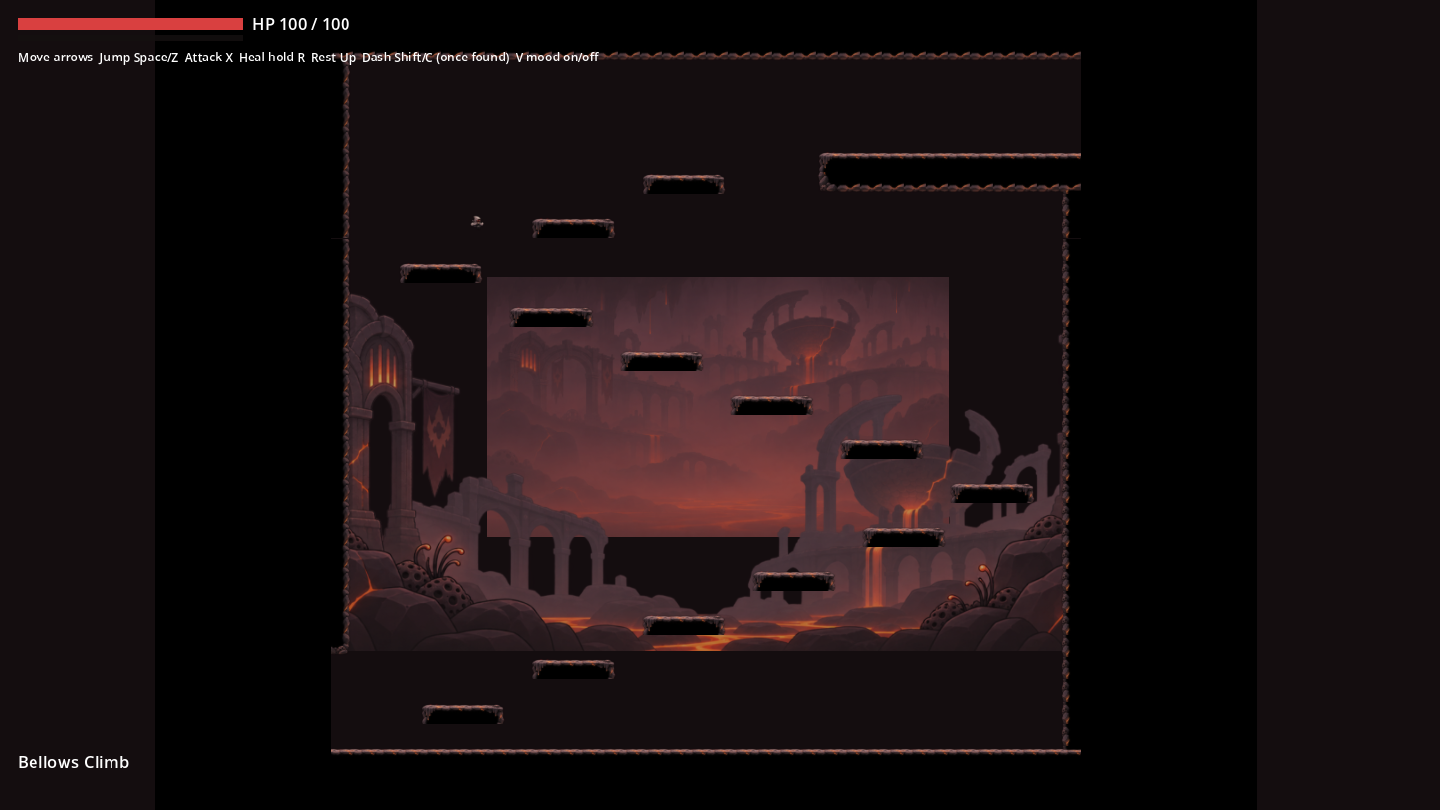
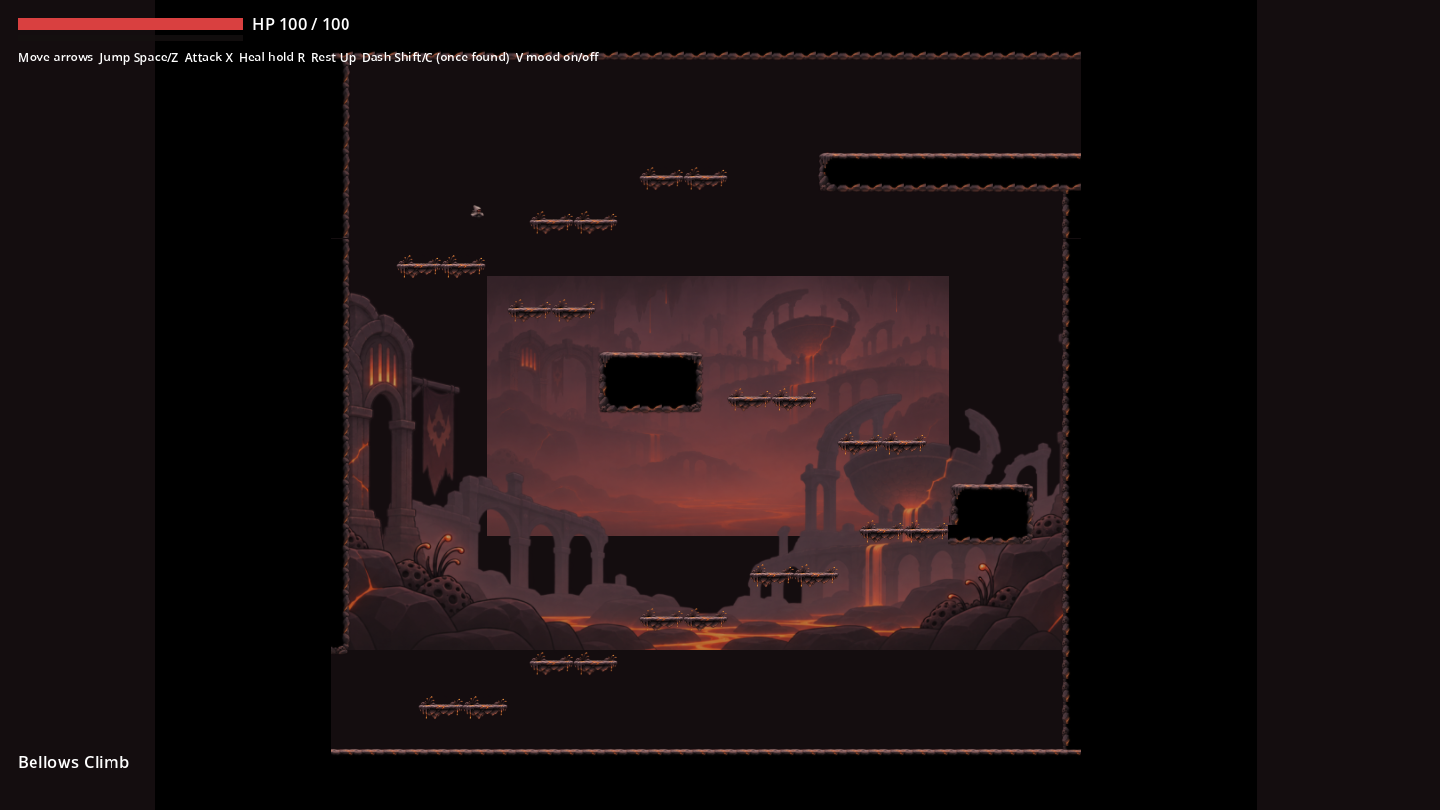
feat: large floating rock islands mixed with small platforms in Cinderheart
Most thin platforms are now big floating islands (4-8 cells wide, 2-4 tall)
drawn with the painted rock frame, with small floating platforms between them,
as Hollow Knight does. All nine rooms re-pass the reachability checker (every
exit, relic and rest reachable; both dash gates hold).

Story: design/levels/cinderheart-region-1.md

Claude-Session: https://claude.ai/code/session_01S7oES5N1xkGSV2ZhoVdSDe

diff --git a/tools/level/cinderheart_layout.py b/tools/level/cinderheart_layout.py
@@ -43,6 +43,11 @@ class Room:
     def fake(self, x0, y0, x1, y1):
         return self._fill(x0, y0, x1, y1, "F")
 
+    def island(self, x, s, w, h):
+        """A large floating rock island: top (surface) row s, w columns, h rows thick. Drawn
+        with the big painted rock frame (edges around a dark middle)."""
+        return self.solid(x, s, x + w - 1, s + h - 1)
+
     def plat(self, x, s, w):
         """A floating rock island one cell thick: top (surface) row s, columns x..x+w-1."""
         return self.solid(x, s, x + w - 1, s)
@@ -149,8 +154,9 @@ r = Room("c01_waking_niche", "Waking Niche", 48, 26)
 r.open(6, 2, 45, 21)
 r.open(2, 18, 3, 21).fake(4, 18, 5, 21)                 # secret nook behind a fake wall
 r.solid(38, 6, 47, 7).open(46, 3, 47, 5)               # top ledge and exit
-r.plat(14, 20, 4).plat(19, 18, 4).plat(24, 16, 4).plat(29, 14, 4).plat(34, 12, 4)
-r.plat(39, 10, 4).plat(33, 8, 4)
+r.plat(9, 20, 3).island(14, 18, 6, 3).island(22, 16, 6, 4).plat(30, 14, 2)
+r.island(33, 12, 6, 3).plat(28, 10, 3).plat(31, 8, 2)
+r.solid(34, 6, 37, 7)
 r.exit("right", "right", 3, 5, "c02_ash_steps", "left")
 r.mark("start", 8, 22).mark("rest", 11, 22).mark("relic", 2, 22)
 rooms.append(r)
@@ -161,8 +167,8 @@ r = Room("c02_ash_steps", "Ash Steps", 64, 30)
 r.open(0, 2, 61, 27)
 r.solid(0, 6, 10, 7)                                    # entry ledge
 r.solid(16, 12, 44, 17)                                 # the great rock
-r.plat(19, 10, 2).plat(22, 8, 3).plat(27, 6, 3)         # climb to the relic
-r.plat(49, 22, 4).plat(53, 25, 3)                       # steps down to the exit
+r.plat(19, 10, 2).plat(22, 8, 2).island(25, 6, 6, 3)    # climb to the relic
+r.island(47, 22, 5, 3).plat(54, 25, 3)                  # down to the exit
 r.open(62, 24, 63, 27)
 r.exit("left", "left", 3, 5, "c01_waking_niche", "right")
 r.exit("right", "right", 24, 27, "c03_kiln_hall", "high_left")
@@ -181,8 +187,8 @@ r.solid(0, 8, 12, 9).solid(0, 2, 0, 4)                  # high shelf (arrival, o
 r.solid(0, 10, 1, 23)
 r.open(20, 28, 22, 31)                                  # floor hole
 r.solid(28, 26, 40, 27).solid(31, 24, 37, 25)           # kiln mound
-r.plat(40, 22, 3).plat(45, 20, 3).plat(50, 18, 3).plat(55, 16, 3).plat(60, 14, 3)
-r.plat(64, 12, 3).plat(59, 10, 3)
+r.island(40, 22, 6, 3).plat(48, 20, 2).island(52, 18, 6, 3).plat(60, 16, 2)
+r.island(63, 14, 4, 3).plat(58, 12, 3).plat(62, 10, 2)
 r.solid(63, 8, 69, 9)                                   # upper ledge to the hidden room
 r.solid(68, 10, 69, 23).open(68, 5, 69, 7).open(68, 24, 69, 27)
 r.exit("high_left", "left", 5, 7, "c02_ash_steps", "right")
@@ -208,7 +214,7 @@ r.solid(44, 18, 52, 19)                                 # shelf
 r.open(38, 20, 40, 21)                                  # pit
 r.solid(22, 19, 23, 19).solid(24, 17, 32, 19)           # step and shelf
 r.open(14, 20, 16, 21)                                  # pit
-r.plat(48, 16, 3).plat(42, 14, 4).plat(36, 12, 4).plat(29, 11, 4).plat(24, 9, 4)
+r.plat(48, 16, 3).island(41, 14, 5, 3).plat(36, 12, 3).island(28, 10, 6, 3).plat(23, 9, 2)
 r.solid(2, 1, 14, 8).open(4, 6, 10, 7).fake(11, 6, 14, 7).solid(15, 8, 20, 8)
 r.exit("up", "top", 70, 72, "c03_kiln_hall", "down")
 r.exit("left", "left", 16, 19, "c06_keepers_forge", "right")
@@ -226,7 +232,7 @@ r.open(0, 2, 53, 13)
 r.solid(24, 13, 53, 13)                                 # far side, a cell higher
 r.open(20, 14, 23, 16).solid(20, 16, 20, 16)            # pit with a step
 r.solid(0, 2, 0, 9).solid(53, 2, 53, 8)
-r.plat(28, 11, 2).plat(31, 9, 3)
+r.plat(27, 11, 2).island(30, 9, 6, 3)
 r.exit("left", "left", 10, 13, "c03_kiln_hall", "right")
 r.exit("right", "right", 9, 12, "c08_brun_antechamber", "left")
 r.mark("gate", 16, 14, ability="dash").mark("relic", 32, 9)
@@ -238,7 +244,7 @@ rooms.append(r)
 r = Room("c06_keepers_forge", "Keeper's Forge", 40, 20)
 r.open(1, 2, 38, 15)
 r.open(0, 12, 0, 15).open(39, 12, 39, 15)
-r.plat(6, 14, 3).plat(10, 12, 4).plat(16, 10, 6).plat(31, 14, 3).plat(26, 12, 4)
+r.plat(6, 14, 3).island(10, 12, 4, 2).island(15, 10, 8, 3).island(25, 12, 4, 2).plat(31, 14, 3)
 r.exit("right", "right", 12, 15, "c04_cinder_run", "left")
 r.exit("left", "left", 12, 15, "c07_bellows_climb", "low_left")
 r.mark("enemy", 20, 16, config="brute").mark("enemy", 12, 16, config="skitter") \
@@ -252,8 +258,8 @@ r = Room("c07_bellows_climb", "Bellows Climb", 34, 36)
 r.open(1, 2, 32, 32)
 r.open(0, 29, 0, 32)
 r.plat(4, 31, 4).plat(9, 29, 4).plat(14, 27, 4).plat(19, 25, 4).plat(24, 23, 4)
-r.plat(28, 21, 4)                                       # turn
-r.plat(23, 19, 4).plat(18, 17, 4).plat(13, 15, 4).plat(8, 13, 4).plat(3, 11, 4)
+r.island(28, 21, 4, 3)                                  # turn
+r.plat(23, 19, 4).plat(18, 17, 4).island(12, 15, 5, 3).plat(8, 13, 4).plat(3, 11, 4)
 r.plat(9, 9, 4).plat(14, 7, 4)                          # turn, then the top
 r.solid(22, 6, 33, 7).open(33, 2, 33, 5)                # far ledge past the dash gap
 r.exit("low_left", "left", 29, 32, "c06_keepers_forge", "left")
